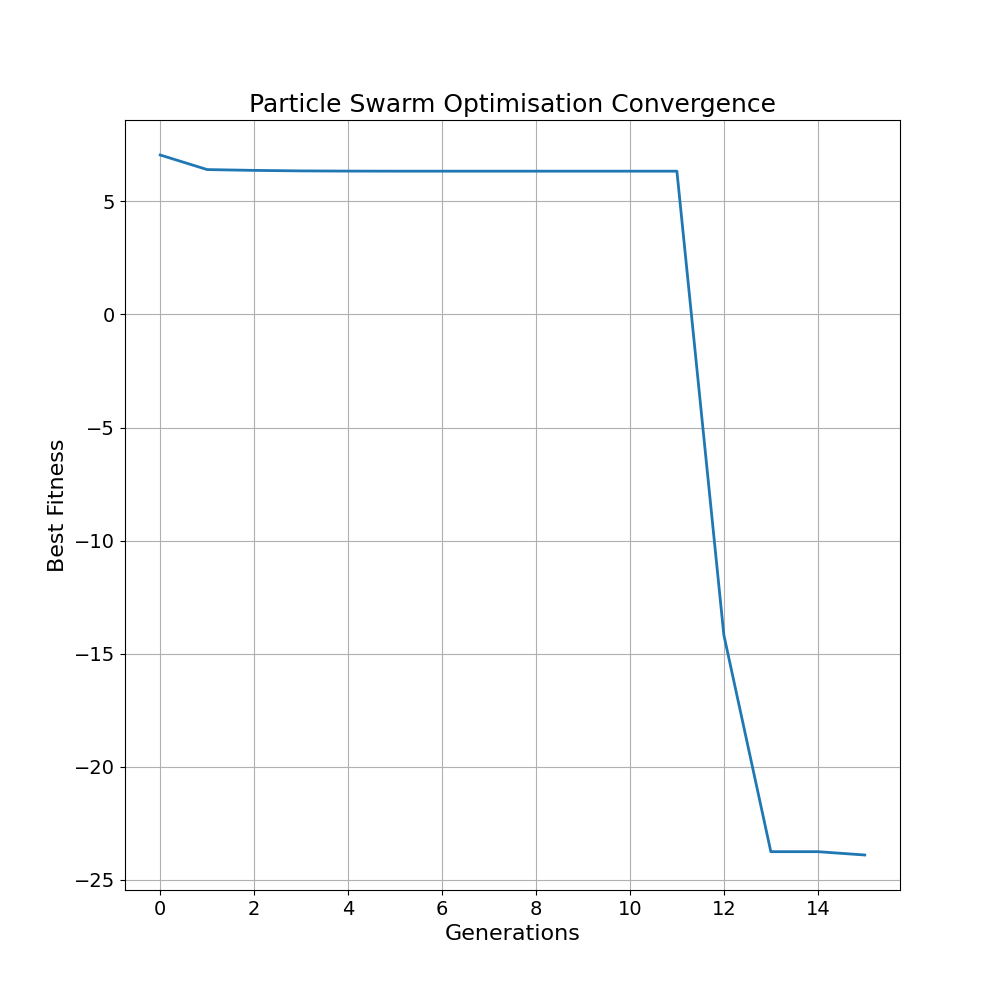
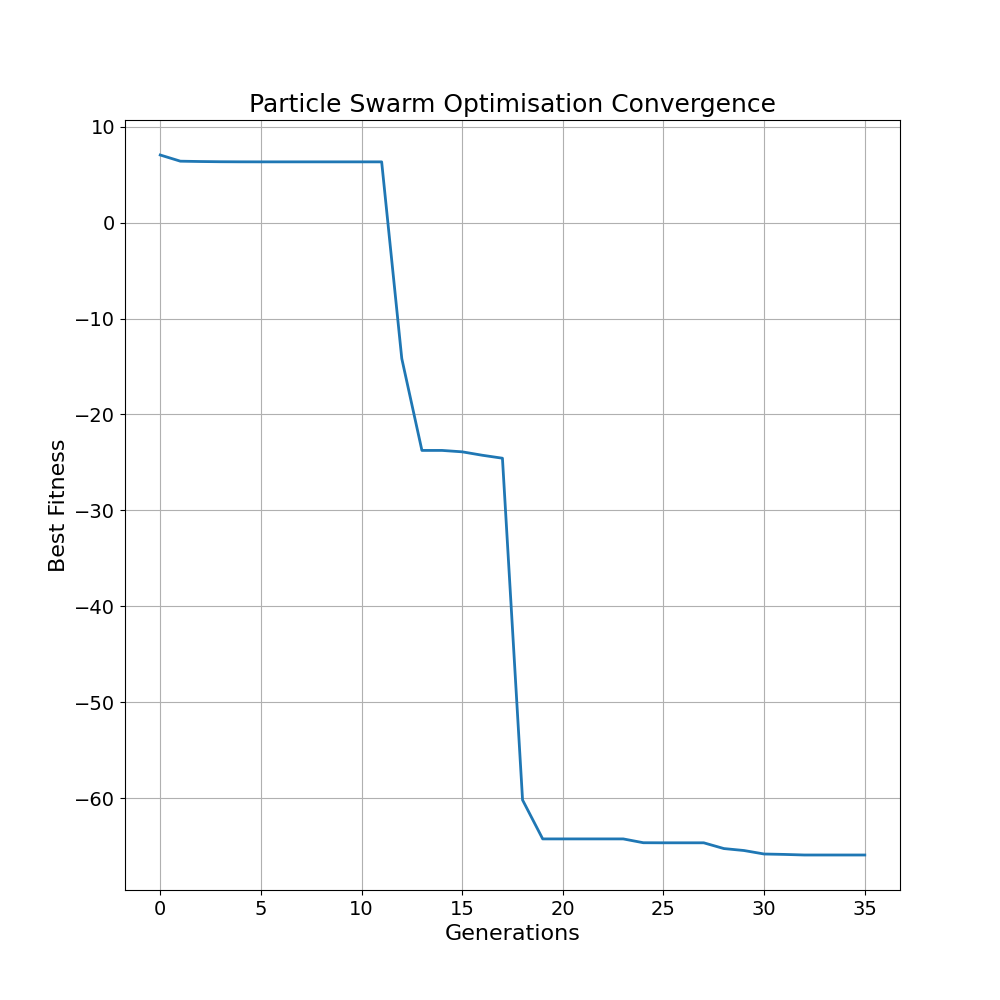
end of big run

diff --git a/src/envs/env_endo/init_vertical_rising.py b/src/envs/env_endo/init_vertical_rising.py
@@ -76,7 +76,7 @@ def reward_func(state, done, truncated, reference_trajectory_func, final_referen
 
     # Truncated function
     if truncated:
-        reward -= (120 - time) #/ 60 * 5
+        reward -= (120 - time) *5#/ 60 * 5
         if time < 5:
             reward -= 50#0.5
         if time < 11:
@@ -90,17 +90,17 @@ def reward_func(state, done, truncated, reference_trajectory_func, final_referen
         if time > 45:
             reward += 100
         if time > 60:
-            reward += 500
+            reward += 5000
         if time > 75:
-            reward += 1000
+            reward += 10000
         if time > 90:
-            reward += 1000
+            reward += 10000
         if time > 100:
-            reward += 1000
+            reward += 10000
         if time > 110:
-            reward += 1000
+            reward += 10000
         if time > 120:
-            reward += 1000
+            reward += 10000
 
     # Done function
     if done:
